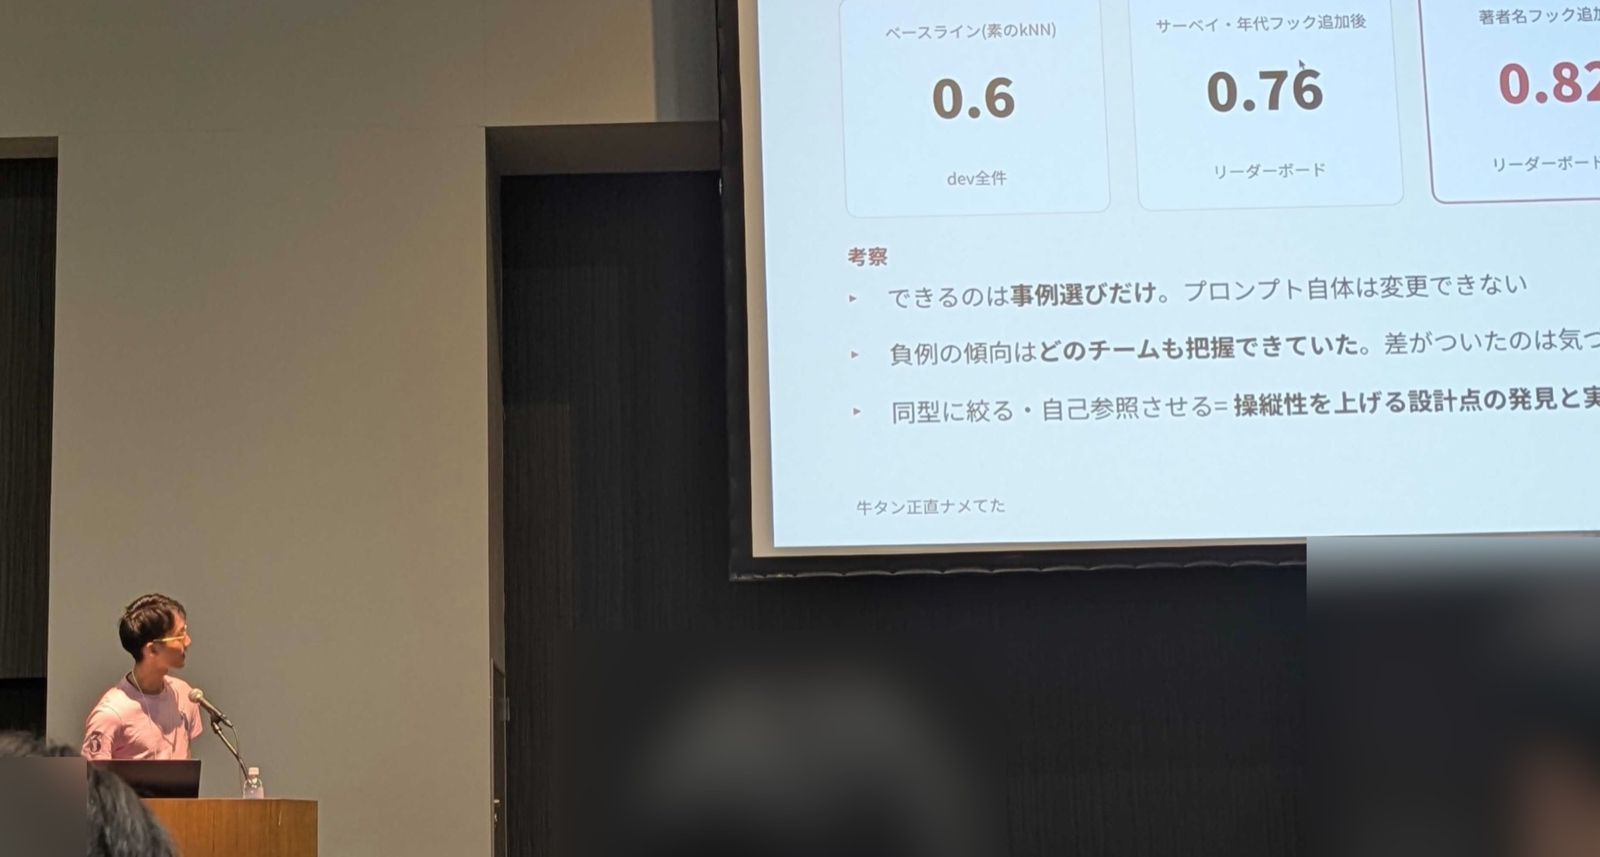
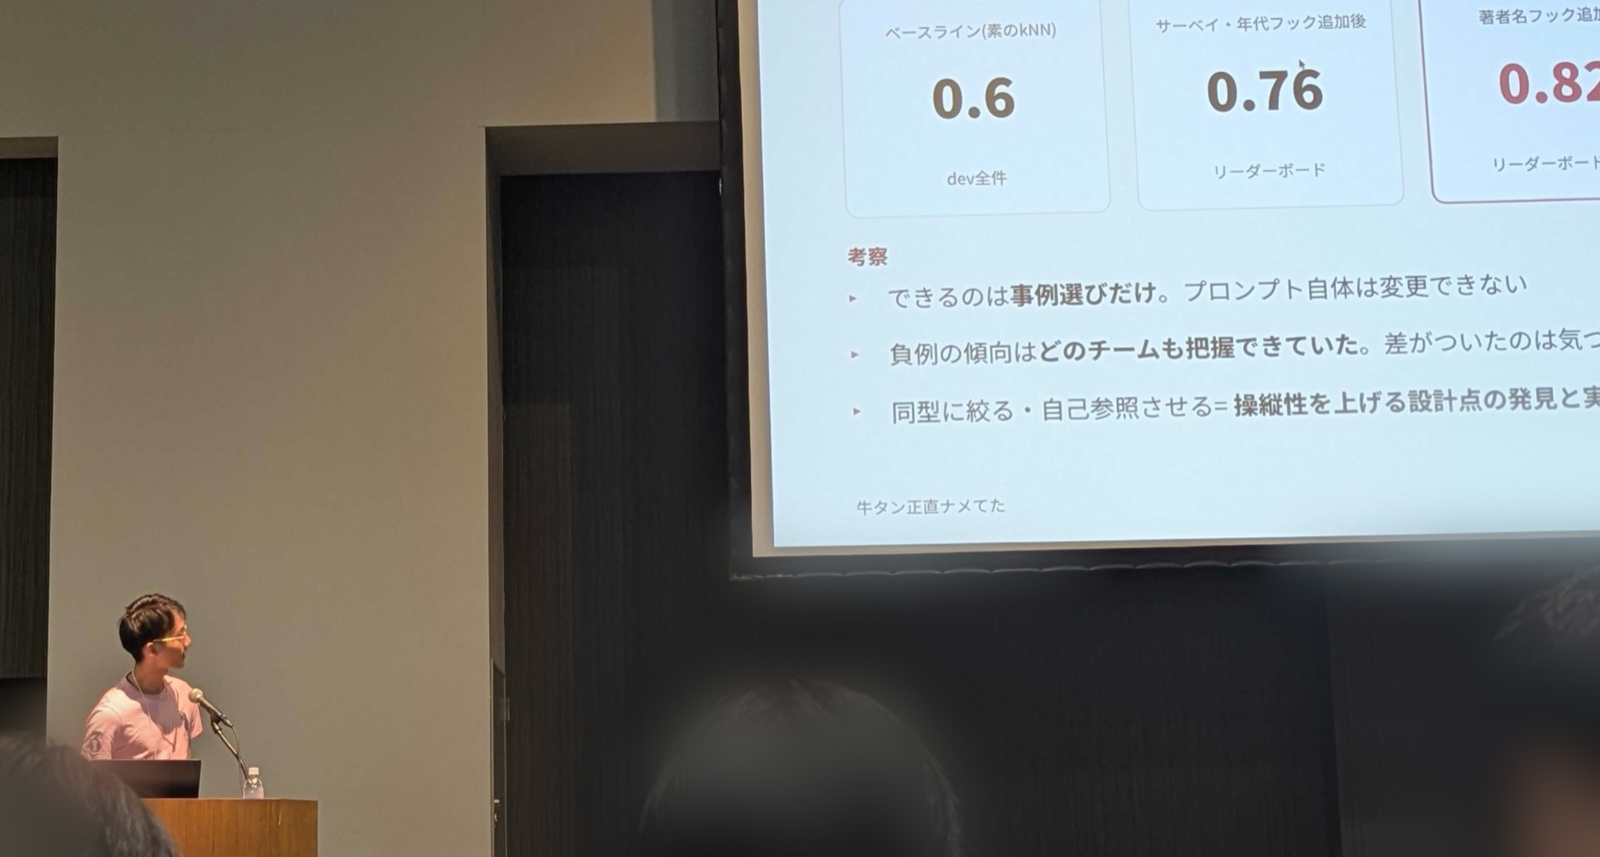
Update YANS blog article for phase3

diff --git a/blog/yans2026.html b/blog/yans2026.html
@@ -38,28 +38,9 @@
 
   <p>チームは学年も所属もバラバラの6人で、私は最年少のB3。専門知識は一番ありませんでした。だから、他のメンバーが取る解決手段を理解するところから始めました。ただ、この「理解から始める」過程が、結果的にチームの議論を助けたと思っています。</p>
 
-  <p>出発点の数字がすでに面白いものでした。zero-shotの正解率は0.47で、コイン投げ以下。無作為に5件の事例を見せると0.60。ところが、埋め込みの類似度で「似た事例」を選ぶkNNは0.47で、無作為に勝てません。賢く選んだはずの事例が、運んでいる情報は無作為と同じだったのです。</p>
+  <p>転機は、kNNの改善に向かいかける前に、「似た事例をLLMに渡すのは、そもそも何のためか」を問い直したことでした。事例が効く経路は、答えを写させることと、正例と負例の分け方を見せることの2つに分解できます。測ってみると前者は死んでいて、賢く選んだはずの「似た事例」は無作為に勝てていませんでした。効かないことを数字で確かめて捨てる。ここで方針が「似た事例を選ぶ」から「誤りを教える」へ切り替わりました。</p>
 
-  <p>チームはkNNの改善(埋め込みモデルの変更、事例の多様化)に向かいかけました。そこで私は、kNNが果たす役割を分けて議論することを提案しました。似た事例をLLMに渡すのは、そもそも何のためか。事例が効く経路は2つに分解できます。(a)似た事例の答えを写させる、(b)正例と負例の分け方を見せる。測ってみると、近傍5件のラベル一致率は0.52。ほぼコイン投げで、経路(a)は死んでいました。「効かない」を数字で確かめて捨てる。これが最短でした。</p>
-
-  <p>残る経路は(b)、分け方を教えることです。データを観察すると、負例には型があります。年代の食い違い、著者名の食い違い、サーベイ論文だという偽装。ここは正直、どのチームも気づいていたと思います。差がついたのは気づきではなく、判定LLMへの伝わり方でした。</p>
-
-  <p>私の担当は「決定的フック」の設計です。正規表現で年代・著者名の食い違いを検知し、検知したクエリにだけ、同型の誤り負例と、年代だけ直した最小対の正例を見せます。検知器は、ラベル付き1200問で誤検知ゼロを確認したパターンだけを採用しました。迷う検知器は捨てる。「当てる」より「外さない」を優先する偽陽性ゼロ設計は、終盤の精神安定剤にもなりました。</p>
-
-  <p>結果、素のkNNで0.60だったスコアは、年代フックで0.76、著者名フックを足してリーダーボード0.82まで上がり、最終テスト0.78でICL部門の優秀賞をいただきました。実装と検証は、コーディングエージェント(Claude Code・Codex)と一緒に回しました。</p>
-
-  <figure class="score-figure wide">
-    <div class="score-track">
-      <div class="score-card"><p class="score-number">0.60</p><p class="score-label">素のkNN(dev)</p></div>
-      <span class="score-arrow" aria-hidden="true">→</span>
-      <div class="score-card"><p class="score-number">0.76</p><p class="score-label">年代フック(LB)</p></div>
-      <span class="score-arrow" aria-hidden="true">→</span>
-      <div class="score-card"><p class="score-number">0.82</p><p class="score-label">著者名フック(LB)</p></div>
-      <span class="score-arrow" aria-hidden="true">→</span>
-      <div class="score-card"><p class="score-number">0.78</p><p class="score-label">最終テスト</p></div>
-    </div>
-    <figcaption>スコアの推移。触れたのはfew-shot事例だけ</figcaption>
-  </figure>
+  <p>私の担当は「決定的フック」の設計です。負例に共通する誤りの型(年代や著者名の食い違い)をルールで確実に検知し、検知したクエリにだけ、同型の誤り負例と最小対の正例を見せます。迷う検知器は捨てる。「当てる」より「外さない」を優先する偽陽性ゼロ設計です。スコアは素のkNNの0.60からリーダーボード0.82(最終テスト0.78)まで上がり、ICL部門の優秀賞をいただきました。実装と検証は、コーディングエージェント(Claude Code・Codex)と一緒に回しました。</p>
 
   <h2 id="responsibility">なぜ差がついたのか: LLMの責務を限定する</h2>
 

diff --git a/blog/blog.css b/blog/blog.css
@@ -64,8 +64,8 @@ figcaption{
 
 .article-layout{
   display:grid;
-  grid-template-columns:minmax(0,680px) 220px;
-  gap:60px;
+  grid-template-columns:minmax(0,680px) 260px;
+  gap:20px;
   align-items:start;
   margin-top:52px;
 }
@@ -90,37 +90,10 @@ a{color:var(--accent);text-underline-offset:3px}
 
 .wide{width:960px;max-width:calc(100vw - (var(--page-gutter) * 2))}
 
-.score-figure{
-  position:relative;
-  z-index:2;
-  margin-top:2em;
-  background:var(--ground);
-}
-
-.score-track{
-  display:grid;
-  grid-template-columns:minmax(0,1fr) auto minmax(0,1fr) auto minmax(0,1fr) auto minmax(0,1fr);
-  gap:10px;
-  align-items:center;
-}
-
-.score-card{
-  min-width:0;
-  border:1px solid var(--line);
-  border-radius:8px;
-  padding:18px 12px;
-  text-align:center;
-}
-
-.score-card:last-of-type{border:2px solid var(--accent);padding:17px 11px}
-.score-number{color:var(--accent);font-size:28px;font-weight:700;line-height:1.2;font-variant-numeric:tabular-nums}
-.score-label{margin-top:6px;color:var(--sub);font-size:11.5px;line-height:1.5}
-.score-arrow{color:var(--sub);font-size:18px}
-
-.toc{position:sticky;top:32px;font-size:13px;line-height:1.65}
-.toc-title{color:var(--sub);font-size:11.5px;font-weight:700;letter-spacing:.14em}
-.toc ul{margin-top:14px;border-left:1px solid var(--line);list-style:none}
-.toc li+li{margin-top:10px}
+.toc{position:sticky;top:32px;font-size:15.5px;line-height:1.8}
+.toc-title{color:var(--sub);font-size:13.5px;font-weight:700;letter-spacing:.14em}
+.toc ul{margin-top:16px;border-left:1px solid var(--line);list-style:none}
+.toc li+li{margin-top:14px}
 .toc a{display:block;border-left:2px solid transparent;margin-left:-1px;padding-left:14px;color:var(--sub);text-decoration:none}
 .toc a:hover,.toc a:focus-visible,.toc a[aria-current="true"]{border-left-color:var(--accent);color:var(--accent);font-weight:700}
 
@@ -150,8 +123,6 @@ footer{
   .hero{margin-top:24px}
   .article-layout{margin-top:40px}
   article h2{margin-top:2.7em;font-size:18px}
-  .score-track{grid-template-columns:repeat(2,minmax(0,1fr));gap:12px}
-  .score-arrow{display:none}
   footer{margin-top:56px}
 }
 
